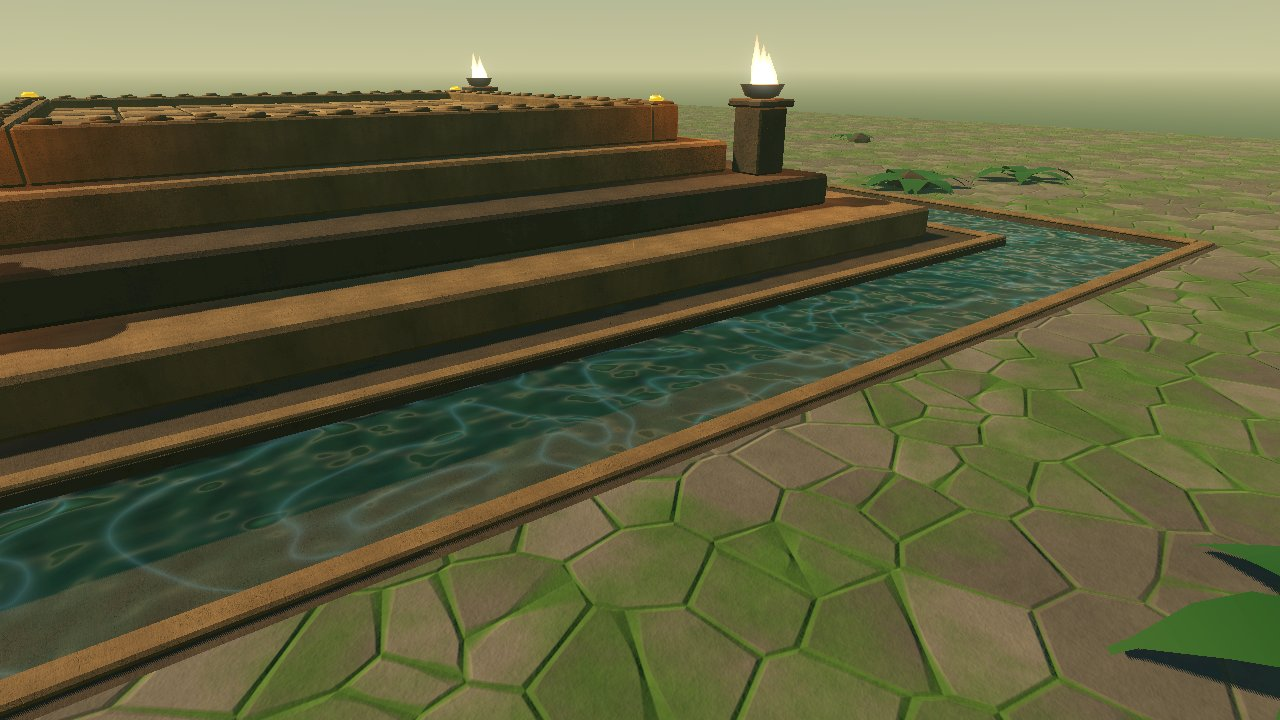
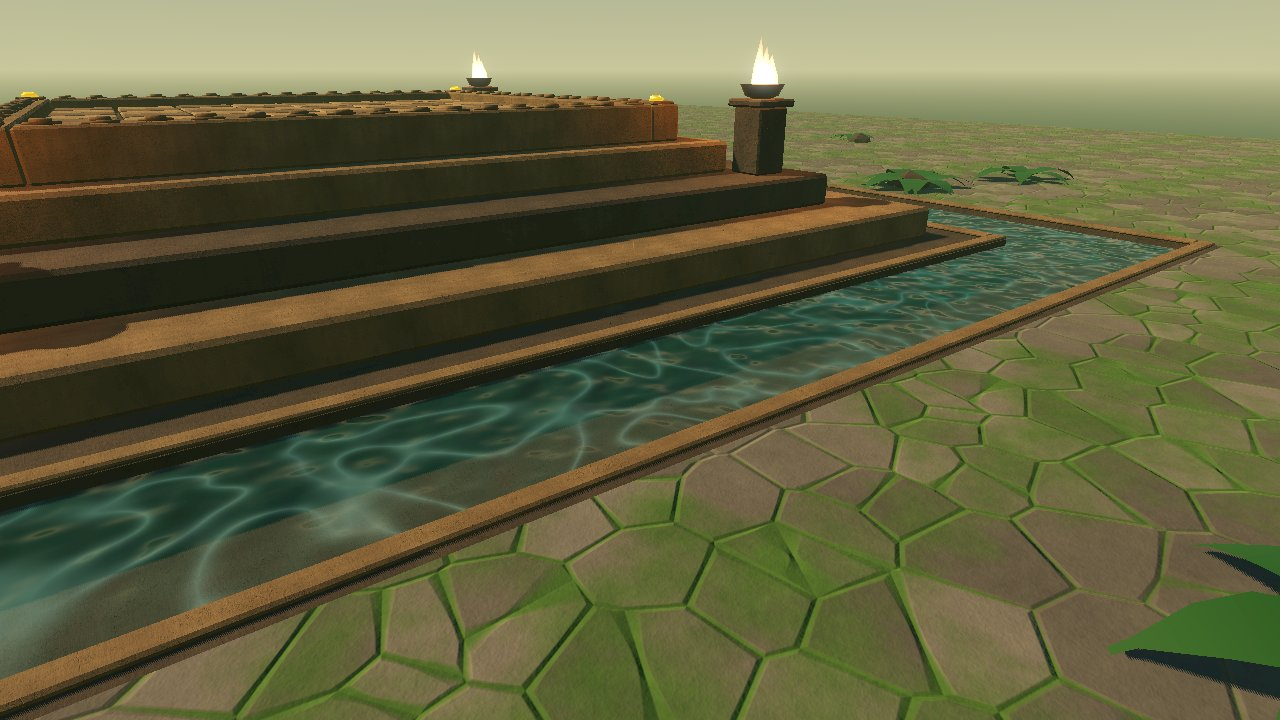
fix(assets): cheaper, bounded water ripples and caustics that show on web
From the WP-50 independent reviews: the noise gradient comes from hashed
bytes instead of sin and cos; the ripple slope no longer grows as
wave_scale shrinks and is capped at 0.6; caustics are skipped where they
cannot show; mobile and web put them on the lit albedo, so they show on
Compatibility and follow sun and exposure; the reflection march defaults
to 16 steps (8 to 32) and the screen texture has no mipmaps. Uniform
defaults match the tuned theme values, floor_height only goes to
SH_WaterSimple, and negative absorption counts as zero. Look-dev frames
re-captured; the reference page states the sample counts and that D3D12
is not checked by any CI job yet.

Claude-Session: https://claude.ai/code/session_014TdgEwnbSxcQqEhaSXspAJ

diff --git a/tools/assets/gen_theme_scenes.py b/tools/assets/gen_theme_scenes.py
@@ -120,7 +120,7 @@ def shader_material(spec, theme, hi):
     if "ior" in spec and spec["shader"].endswith("SH_TriplanarPBR.gdshader"):
         r.body.append(f"shader_parameter/specular = {specular_from_ior(spec['ior'])}")
     params = dict(spec.get("params", {}))
-    if spec.get("water") and WATER:
+    if spec.get("water") and WATER and spec["shader"].endswith("SH_WaterSimple.gdshader"):
         params["floor_height"] = round(WATER["floor"], 4)
     for key, value in params.items():
         if isinstance(value, str):

diff --git a/docs/reference/water.md b/docs/reference/water.md
@@ -34,6 +34,9 @@ stone causeway under the far stair. All numbers come from the theme's
 | Channel floor | −2.52 |
 | Board rectangle | ±4.55, so the water is at least 3.9 m outside it |
 
+Ferns and boulders keep 1.2 m clear of the outer edge, so the jungle
+planting moved outward when the channel came in.
+
 From the game camera at 16:9 the east and west strips show at the left
 and right edges, about a tenth of the frame; taller screens also show the
 near and far strips. Water never lies inside the board rectangle
@@ -73,19 +76,19 @@ desktop variant. The generator adds `floor_height` to materials marked
 | Parameter | Shaders | Range | Temple | Meaning |
 |---|---|---|---|---|
 | `water_color` | both | colour | `#1d4a40` | colour deep water scatters back, lit by the scene |
-| `absorption` | both | 0 to 4 per metre, per channel | (1.1, 0.34, 0.28) | light lost per metre, red, green, blue; red goes first, so depth turns the water green-teal |
-| `wave_scale` | both | 0.2 to 4 | 1.4 | ripple size; larger is broader |
-| `wave_strength` | both | 0 to 1 | 0.18 | ripple slope |
-| `flow_speed` | both | 0 to 0.5 m/s | 0.05 | drift of the ripples |
+| `absorption` | both | 0 to 4 per metre, per channel (negative counts as 0) | (1.1, 0.34, 0.28) | light lost per metre, red, green, blue; red goes first, so depth turns the water green-teal |
+| `wave_scale` | both | 0.2 to 4 | 1.4 | ripple size; wavelength and height scale together, so the slope stays the same |
+| `wave_strength` | both | 0 to 1 | 0.18 | ripple slope; capped at a 0.6 slope (about 31°) so no setting turns the surface into glitter |
+| `flow_speed` | both | 0 to 0.5 | 0.05 | drift rate of the ripple noise (the pattern moves at about a third of this in m/s); the two swells and the caustics move at fixed slow rates |
 | `roughness` | both | 0 to 0.3 | 0.04 | surface roughness of the reflections |
 | `caustic_strength` | both | 0 to 4 | 2.2 | brightness of the caustic lines on the floor |
 | `caustic_scale` | both | 0.2 to 4 | 1.3 | caustic pattern size |
 | `refraction_strength` | `SH_Water` | 0 to 0.15 | 0.04 | screen-space bend per metre of water |
 | `ssr_max_distance` | `SH_Water` | 1 to 30 m | 10 | how far a reflection ray travels |
-| `ssr_steps` | `SH_Water` | 8 to 48 | 20 | reflection march steps; the main cost knob |
+| `ssr_steps` | `SH_Water` | 8 to 32 | 16 | reflection march steps; the main cost knob |
 | `edge_softness` | `SH_Water` | 0 to 0.3 m | 0.08 | width of the soft line where the water meets stone |
 | `floor_height` | `SH_WaterSimple` | metres, Godot Y | −2.52 (generated) | the flat channel floor the path length and caustics use |
-| `floor_albedo` | `SH_WaterSimple` | 0 to 1 | 0.3 | how much caustic light the floor sends back |
+| `floor_albedo` | `SH_WaterSimple` | 0 to 1 | 0.12 | how bright the caustic lines make the floor; they are added to the lit albedo, so they follow sun, shadow and exposure |
 
 The theme's `water` block:
 
@@ -105,16 +108,18 @@ nodes.
 
 | Shader | Render mode | Samplers | Cost per pixel |
 |---|---|---|---|
-| `SH_Water` | transparent pass (reads the screen texture), opaque result (no `ALPHA`), depth write, Burley diffuse, GGX | `hint_screen_texture` (linear mipmap, clamp) and `hint_depth_texture` (nearest, clamp), as `SH_Gem` | 2 depth + 2 screen samples, up to `ssr_steps` + 3 depth samples and 1 screen sample for the reflection, 3 noise octaves, 2 caustic layers |
-| `SH_WaterSimple` | blended (`ALPHA` from the absorption, at least the Fresnel), Burley diffuse, GGX | none | 2 noise octaves, 1 caustic layer, no texture samples |
-| `SH_Water.gdshaderinc` | — | none | gradient noise with analytic derivatives (integer hash), ripple slope, caustics, Beer-Lambert transmittance, Schlick Fresnel |
+| `SH_Water` | transparent pass (reads the screen texture), opaque result (no `ALPHA`), depth write, Burley diffuse, GGX | `hint_screen_texture` (linear, no mipmaps, clamp) and `hint_depth_texture` (nearest, clamp) | 2 depth and 1 screen sample, then up to `ssr_steps` + 3 depth and 1 screen sample for the reflection (23 at the default 16); 3 noise octaves, and 2 caustic layers (4 noise evaluations) only where the caustics can show |
+| `SH_WaterSimple` | blended (`ALPHA` from the absorption, at least the Fresnel), Burley diffuse, GGX | none | 2 noise octaves, 1 caustic layer (3 noise evaluations) where it can show, no texture samples, no trigonometry in the noise |
+| `SH_Water.gdshaderinc` | — | none | gradient noise with analytic derivatives (integer hash, gradients from hashed bytes, no trigonometry), ripple slope, caustics, Beer-Lambert transmittance, Schlick Fresnel |
 
 No static switches: two compiled user variants. Neither shader samples a
 material texture, so the water adds no anisotropic or repeating sampler
 and stays inside the 16 Metal sampler slots
-([Board themes](board-themes.md#quality-tier-variants)). `SH_Water` runs on
-Forward+ (Vulkan, D3D12, Metal); `SH_WaterSimple` on Mobile and
-Compatibility (and Forward+). Both use `TIME`, so Movie Maker captures are
+([Board themes](board-themes.md#quality-tier-variants)). `SH_Water` is
+written for Forward+ (Vulkan, D3D12, Metal) and checked on Vulkan; Metal is
+checked by CI's macOS screenshot job when that job renders with Metal, and
+D3D12 by no job yet (the Windows screenshot uses OpenGL through ANGLE).
+`SH_WaterSimple` is checked on Mobile and Compatibility. Both use `TIME`, so Movie Maker captures are
 repeatable at a fixed frame rate.
 
 ## Cost
@@ -122,7 +127,7 @@ repeatable at a fixed frame rate.
 | Measure | Value |
 |---|---|
 | Budget | `SH_WaterSimple` ≤ 0.3 ms at 1280×720 on an Intel UHD 620 class GPU; `SH_Water` ≤ 0.5 ms at 1440p on the benchmark Mac (M4) |
-| Measured | not on a real GPU yet: the [benchmark](benchmark.md) (WP-46) measures it with the rest of the scene, see [Benchmark results](benchmark-results.md) |
-| Estimate | software rendering (lavapipe, llvmpipe) runs the look-dev scene at 1 to 2 fps with or without the water, so it cannot resolve the cost; by count, `SH_WaterSimple` is 3 noise evaluations and no samples, `SH_Water` 5 noise evaluations and up to 26 depth and 3 screen samples |
+| Measured | not on a real GPU yet: the [benchmark](benchmark.md) (WP-46) measures it with the rest of the scene, see [Benchmark results](benchmark-results.md); compare a run with the four `Water*` nodes hidden to get the water's share |
+| Estimate | software rendering (lavapipe, llvmpipe) runs the look-dev scene at 1 to 2 fps with or without the water, so it cannot resolve the cost. By count: `SH_WaterSimple` is up to 5 noise evaluations (2 for the ripples, 3 for the caustics), each 4 integer hashes and no trigonometry, and no texture samples; `SH_Water` up to 7 noise evaluations and up to 23 depth and 2 screen samples |
 | Triangles | 12 per strip slab (60 in all); the channel adds about 400 to the backdrop |
 | Reflection probes | 4, rendered once at load |

diff --git a/docs/reference/board-themes.md b/docs/reference/board-themes.md
@@ -149,7 +149,7 @@ the project in Godot from a fresh checkout.
 | `SH_TriplanarPBR` | desktop stone (`hi/MI_Stone*`) | opaque, Burley diffuse, GGX; object-space triplanar PBR set; parallax occlusion on upward faces (`height_depth` metres, 8 to 24 layers by view angle) | 9 texture samples, plus up to 25 height samples on upward faces |
 | `SH_Gem` | desktop ruby and amethyst (`hi/MI_Ruby`, `hi/MI_Amethyst`) | transparent pass (reads the screen texture), depth write; refraction with `ior` and `dispersion`, absorption by the body colour over `thickness` | 9 texture samples, 3 screen and 3 depth samples |
 | `SH_Triplanar.gdshaderinc` | included by the two above | object-space triplanar sampling, normal-map blending, Y-face parallax | none of its own |
-| `SH_Water` | desktop water (`hi/MI_Water`) | transparent pass, opaque result; refraction, absorption, caustics, screen-space reflection march | up to 26 depth and 3 screen samples, no material textures ([Water](water.md#shaders)) |
+| `SH_Water` | desktop water (`hi/MI_Water`) | transparent pass, opaque result; refraction, absorption, caustics, screen-space reflection march | up to 23 depth and 2 screen samples at the default 16 steps, no material textures ([Water](water.md#shaders)) |
 | `SH_WaterSimple` | mobile and web water (`MI_Water`) | blended; absorption to the floor height, caustics | no texture samples |
 | `SH_Water.gdshaderinc` | included by the two above | ripple noise and slope, caustics, absorption, Fresnel | none |
 
